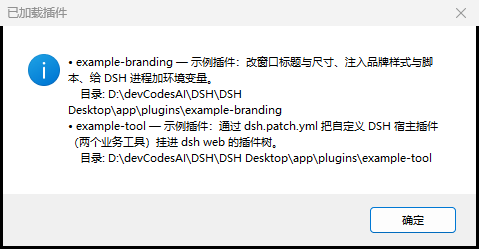
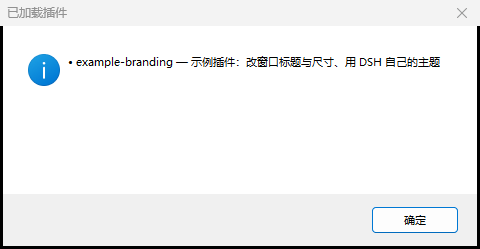
Release 1.1.1: refreshed screenshots and version bump

diff --git a/src/DshDesktop.cs b/src/DshDesktop.cs
@@ -25,7 +25,7 @@ namespace DshDesktop
 {
     internal static class Program
     {
-        private const string Version = "1.1.0";
+        private const string Version = "1.1.1";
         private const string MutexName = "Global\\DshDesktop.SingleInstance.6F0B6E2A";
 
         [STAThread]
